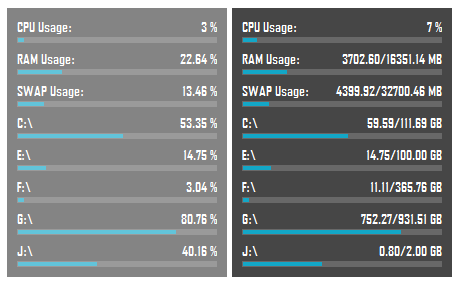
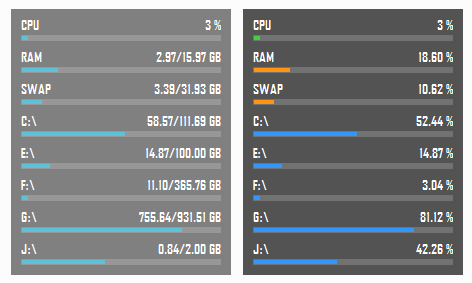
Update to v0.4
Update README
Update Screenshot
Update src\SysMeter

Changed region(s): [[0.0, 0.0283, 1.0, 0.9894]]

diff --git a/README.md b/README.md
@@ -9,6 +9,7 @@ Shows ComputerInfo via AutoHotkey
 * Toggle MB/GB to Percentage
 * Toggle & Reset Transparency
 * Toggle AlwaysOnTop
+* Color Scheme
 * Save Ini-Settings
 
 
@@ -17,11 +18,12 @@ Shows ComputerInfo via AutoHotkey
 
 
 ## Info
-* Version: v0.3
+* Version: v0.4
 * URL: [AHK Thread](http://ahkscript.org/boards/viewtopic.php?f=6&t=3521)
 
 
 ## Changelog
+* 0.4 | Change text; Added Color Scheme
 * 0.3 | Save & Load Ini-Settings
 * 0.2 | Scale transparency with Strg+MWHEEL(UP|DOWN)
 * 0.1 | First Release
